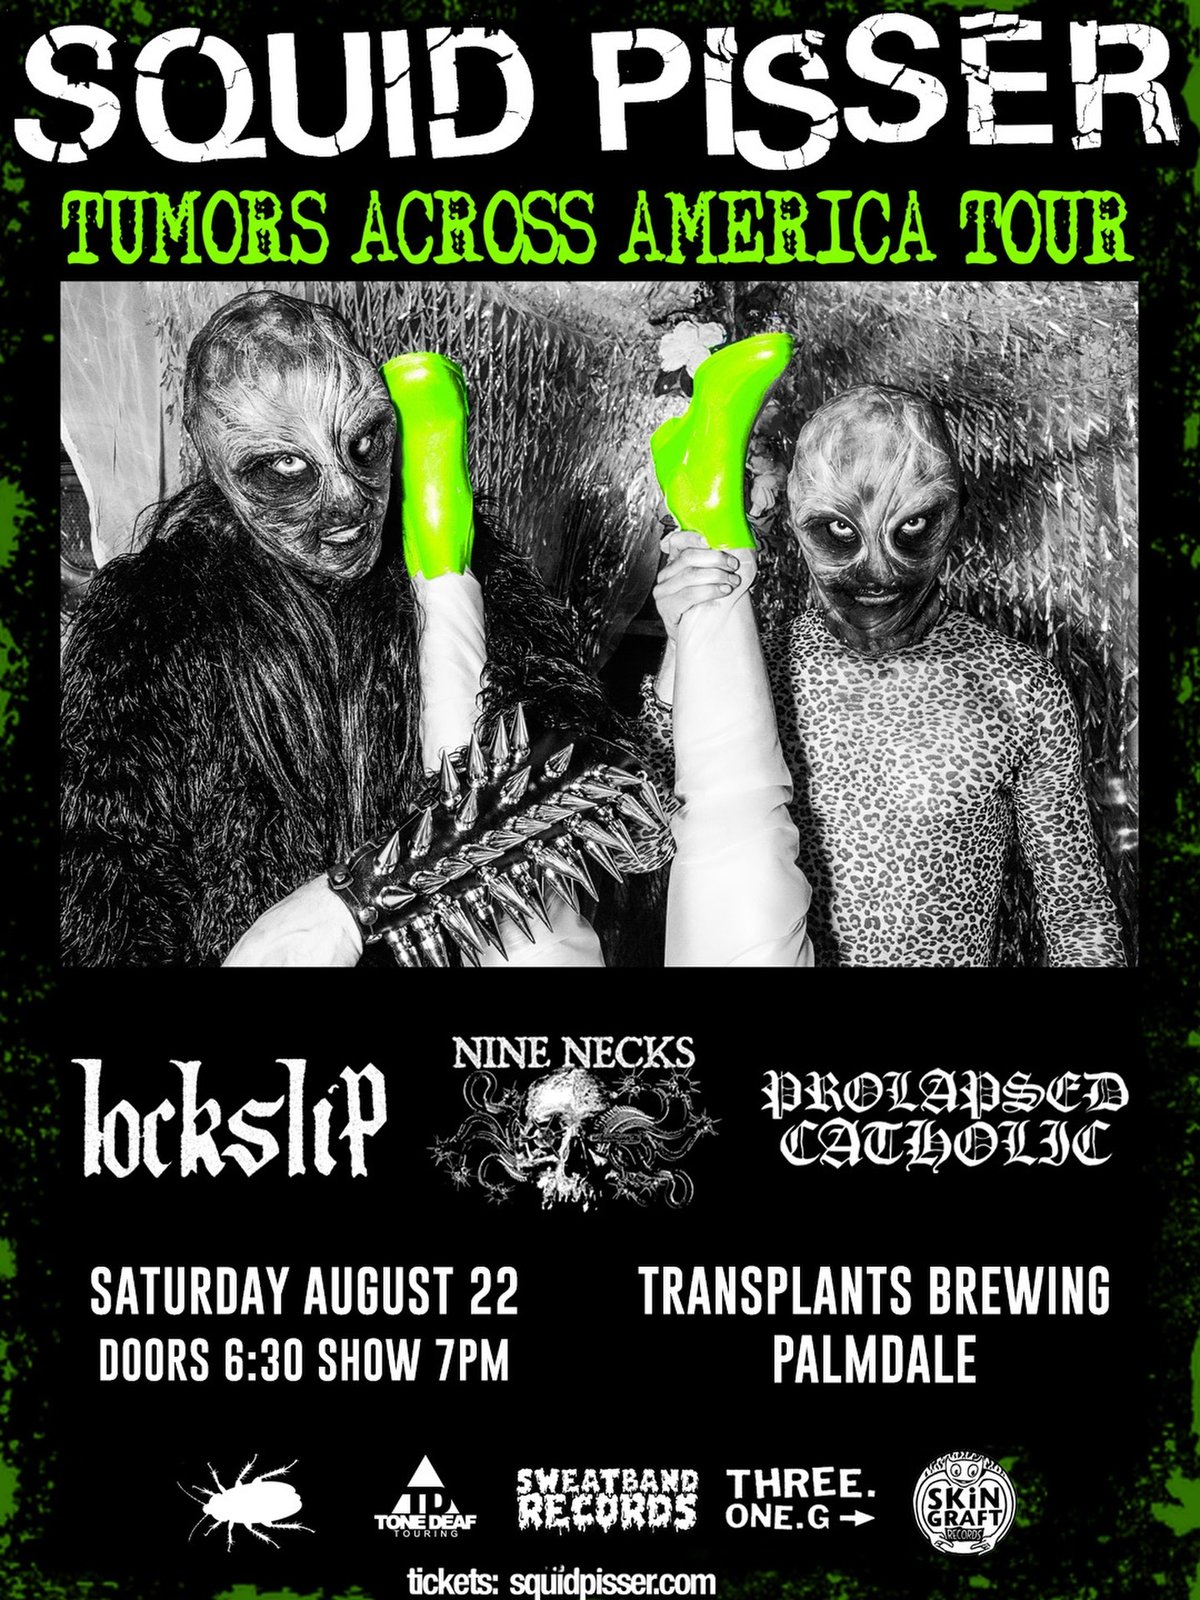
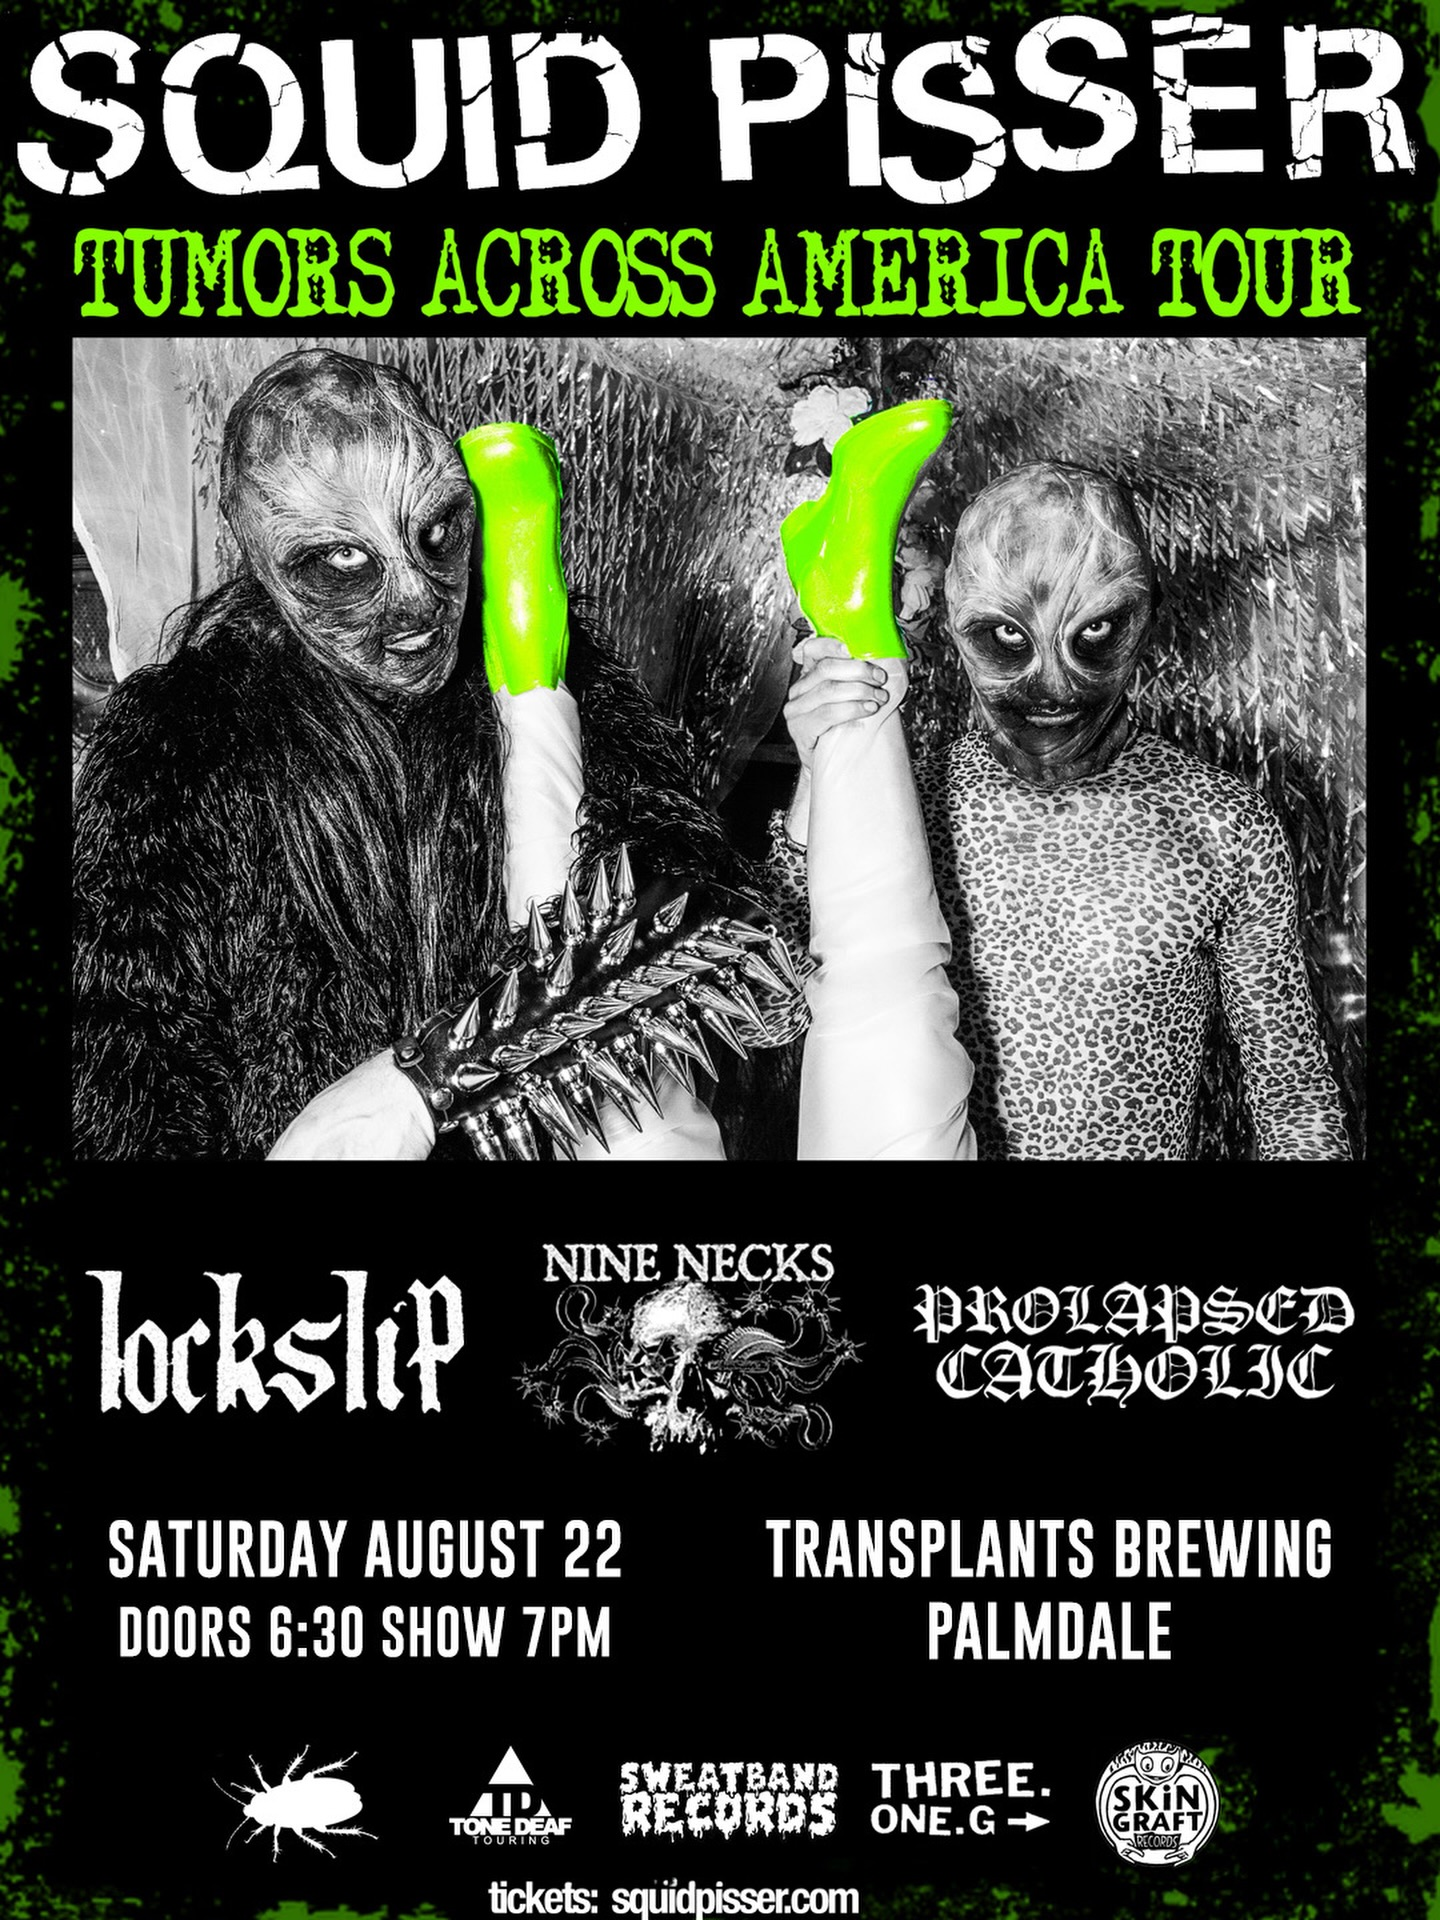
raise show poster cap to 1920

diff --git a/optimize_images.py b/optimize_images.py
@@ -167,7 +167,9 @@ def optimize_directory(input_dir, output_dir=None, max_width=1200, max_height=12
     print(f"\nOptimization complete: {successful} successful, {failed} failed")
 
 DEFAULT_PRESETS = [
-    {'input': 'assets/show-posters', 'max_width': 1600, 'max_height': 1600, 'quality': 85},
+    # 1920 matches both the tallest posters IG hands out and what a retina
+    # fullscreen modal (90vh @ 2-3x) can actually resolve.
+    {'input': 'assets/show-posters', 'max_width': 1920, 'max_height': 1920, 'quality': 85},
     {'input': 'assets/releases',     'max_width': 1200, 'max_height': 1200, 'quality': 85},
 ]
 

diff --git a/CLAUDE.md b/CLAUDE.md
@@ -14,7 +14,7 @@ Starts local development server on port 8000 with CORS headers for JSON loading.
 ```bash
 # One-time setup: `venv` in the repo root creates .venv and installs requirements.txt
 
-# Optimize images (no args = runs repo defaults: show-posters @ 1600/q85, releases @ 1200/q85)
+# Optimize images (no args = runs repo defaults: show-posters @ 1920/q85, releases @ 1200/q85)
 # Files already at-or-below the target dimensions are skipped, no churn on re-runs.
 .venv/bin/python optimize_images.py
 
@@ -196,7 +196,8 @@ const USE_BIG_CARTEL = false; // Manual JSON only
 
 ### Performance Optimization
 - **Images**: Use `optimize_images.py` script before committing
-- **Show posters**: Target 1600x1600px max, 85% quality (sharp in fullscreen modal)
+- **Show posters**: Target 1920x1920px max, 85% quality. 1920 is what a retina fullscreen
+  modal (90vh at 2-3x) resolves, and the ceiling on what Instagram hands out anyway.
 - **Releases**: Target 1200x1200px max, 85% quality
 - **Merch photos**: Target 1000x1000px max, 85% quality
 - **Consider WebP**: Add WebP conversion for better compression
